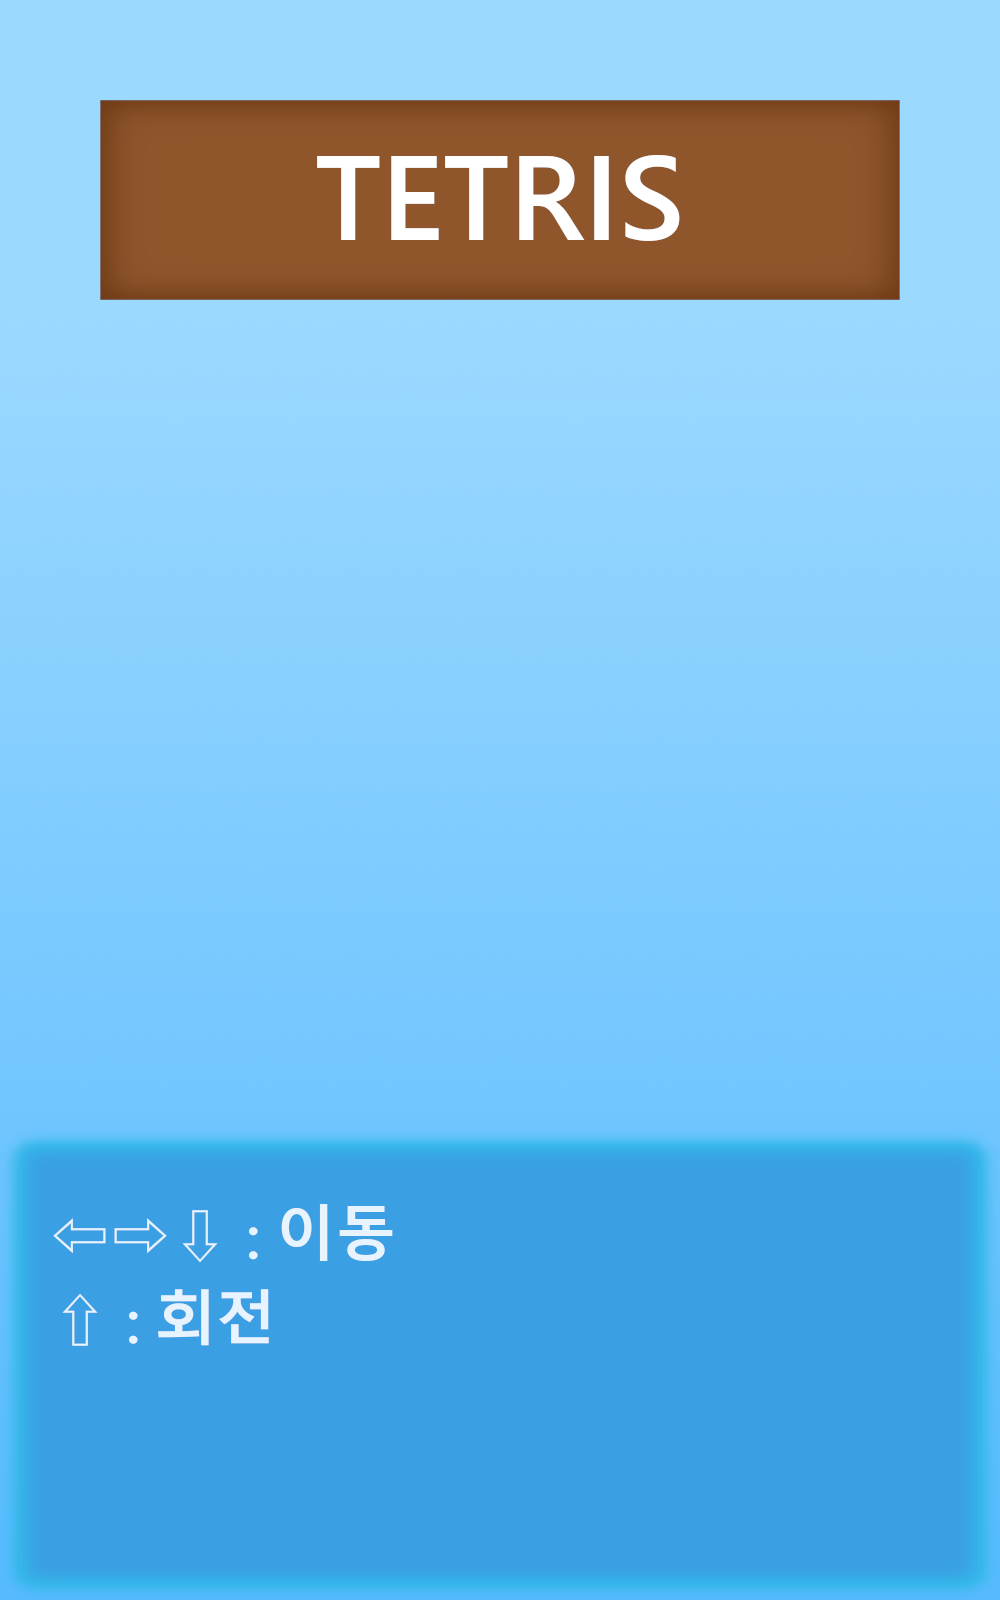
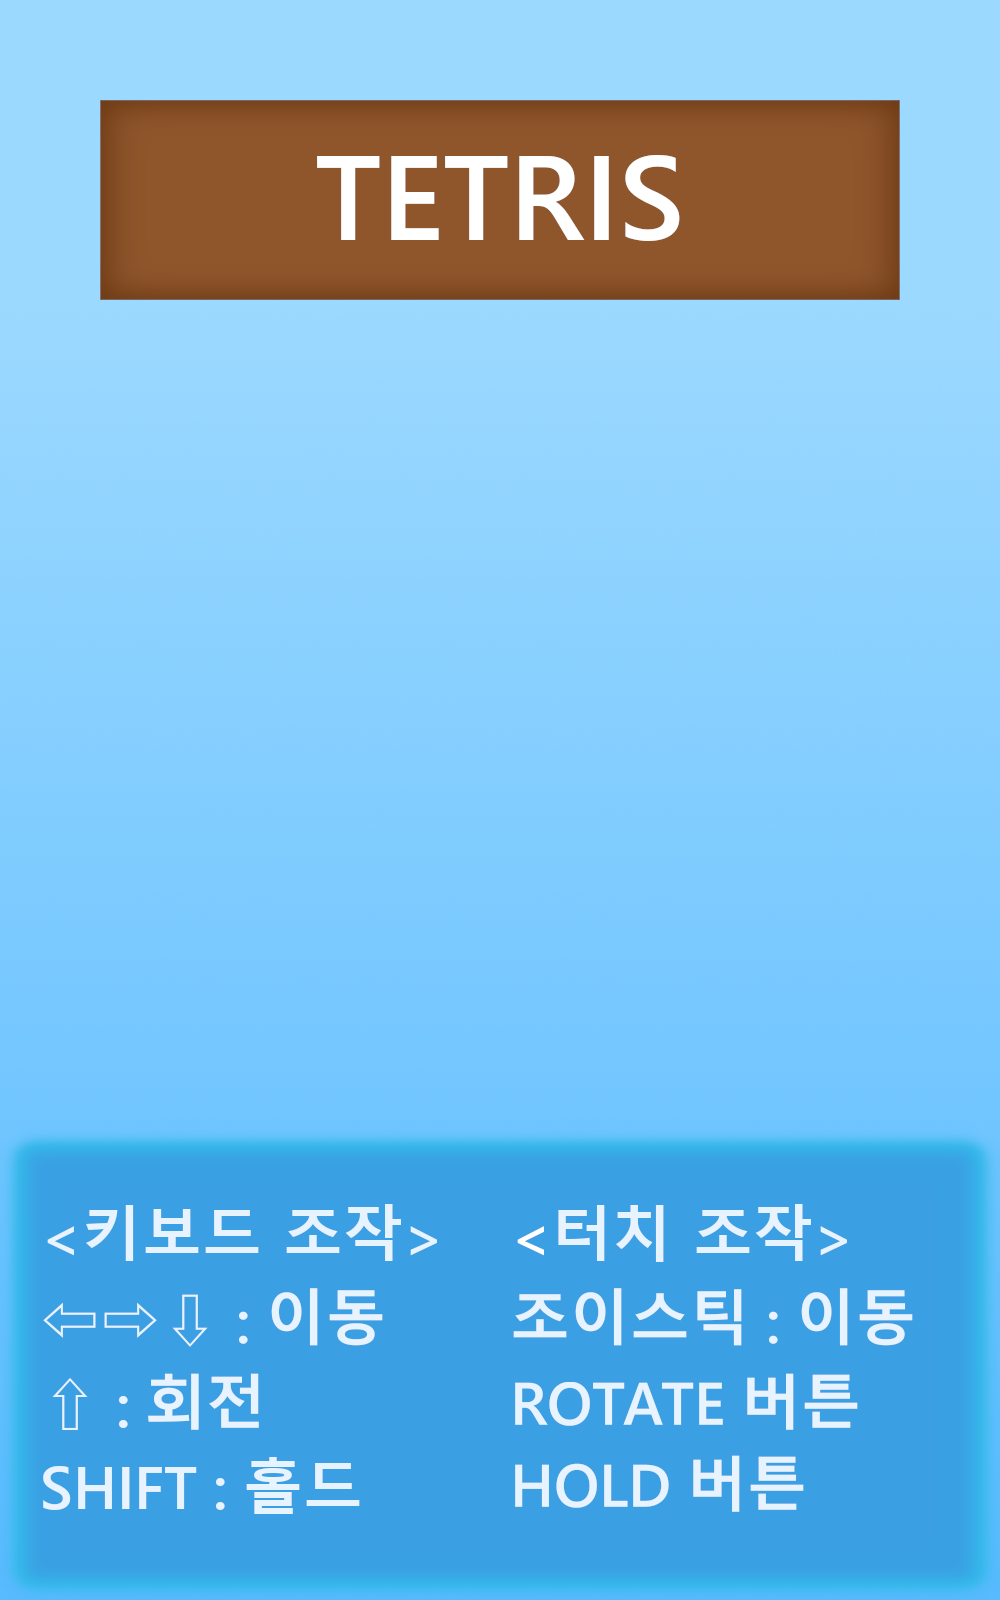
모바일 조작 추가

Changed region(s): [[0.496, 0.75, 0.93, 0.9688], [0.031, 0.75, 0.434, 0.9688]]

diff --git a/src/scene/game.js b/src/scene/game.js
@@ -22,6 +22,8 @@ export default class Game extends Phaser.Scene {
     preload() {
         this.load.image('game_background', 'assets/game_background.png');
         this.load.image('start_button', 'assets/game_start_button.png');
+        this.load.image('hold_button', 'assets/hold_button.png');
+        this.load.image('rotate_button', 'assets/rotate_button.png');
         this.load.image('game_over', 'assets/game_over.png');
 
         this.load.image('sky_unit', 'assets/sky_unit.png');
@@ -39,6 +41,8 @@ export default class Game extends Phaser.Scene {
         this.load.image('silhouette_l', 'assets/silhouette_l.png');
         this.load.image('silhouette_s', 'assets/silhouette_s.png');
         this.load.image('silhouette_z', 'assets/silhouette_z.png');
+
+        this.load.plugin('rexvirtualjoystickplugin', 'https://raw.githubusercontent.com/rexrainbow/phaser3-rex-notes/master/dist/rexvirtualjoystickplugin.min.js', true);
     }
 
     create() {
@@ -91,6 +95,53 @@ export default class Game extends Phaser.Scene {
 
         this.add.text(810, 50, 'HOLD', { fontSize: 48, fontFamily: 'Arial' });
         this.add.text(810, 285, 'NEXT', { fontSize: 48, fontFamily: 'Arial' });
+
+        this.add.image(780, 945, 'hold_button')
+            .setOrigin(0, 0)
+            .setInteractive().on('pointerdown', () => {
+                this.player = this.tetrominoFactory.hold(this.player);
+                this.player.createOnBoard();
+            });
+
+        this.add.image(780, 1265, 'rotate_button')
+            .setOrigin(0, 0)
+            .setInteractive().on('pointerdown', () => {
+                this.player.rotate();
+            });
+
+        this.joyStickControlDelay = 100;
+        this.joyStickControlTimer = 0;
+        this.joyStick = this.plugins
+            .get('rexvirtualjoystickplugin')
+            .add(this, {
+                x: 250,
+                y: 1350,
+                radius: 150,
+                base: this.add.circle(0, 0, 200, 0x888888).setAlpha(0.4).setDepth(1),
+                thumb: this.add.circle(0, 0, 100, 0xcccccc).setAlpha(0.4).setDepth(1),
+                dir: '4dir',
+                forceMin: 75
+            });
+    }
+
+    checkJoyStickControl() {
+        if (this.joyStick.left) {
+            if (this.player.isMovable(this.directionLeft)) {
+                this.player.moveOnBoard(this.directionLeft);
+            }
+        }
+
+        if (this.joyStick.right) {
+            if (this.player.isMovable(this.directionRight)) {
+                this.player.moveOnBoard(this.directionRight);
+            }
+        }
+
+        if (this.joyStick.down) {
+            if (this.player.isMovable(this.directionDown)) {
+                this.player.moveOnBoard(this.directionDown);
+            }
+        }
     }
 
     update(time, delta) {
@@ -98,13 +149,12 @@ export default class Game extends Phaser.Scene {
             return;
         }
 
-        this.currentDownTimer += delta;
-
         if (this.difficultySystem.checkDifficultyUp(delta)) {
             console.log(time);
             this.downInterval = this.difficultySystem.getDownInterval();
         }
 
+        this.currentDownTimer += delta;
         if (this.currentDownTimer > this.downInterval) {
             this.currentDownTimer -= this.downInterval;
 
@@ -114,6 +164,13 @@ export default class Game extends Phaser.Scene {
             else {
                 this.nextTetromino();
             }
+        }
+
+        this.joyStickControlTimer += delta;
+        if (this.joyStickControlTimer > this.joyStickControlDelay) {
+            this.joyStickControlTimer -= this.joyStickControlDelay;
+
+            this.checkJoyStickControl();
         }
     }
 

diff --git a/index.html b/index.html
@@ -4,7 +4,7 @@
 <head>
   <meta charset="UTF-8" />
   <meta name="viewport" content="width=device-width, initial-scale=1">
-  <title>My First Parcel App</title>
+  <title>Web Tetris</title>
   <script src="library/phaser3.60.0.min.js"></script>
   <script type="module" src="src/app.js"></script>
   <link rel="stylesheet" href="viewport.css">
